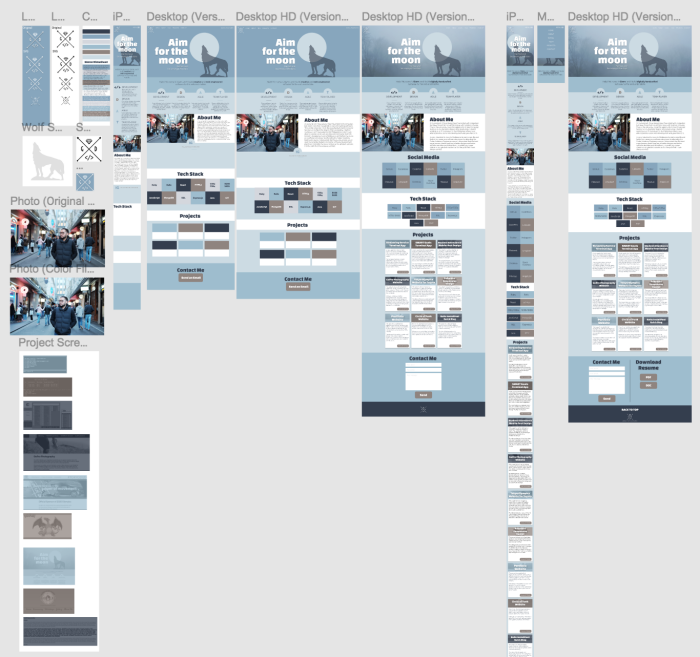
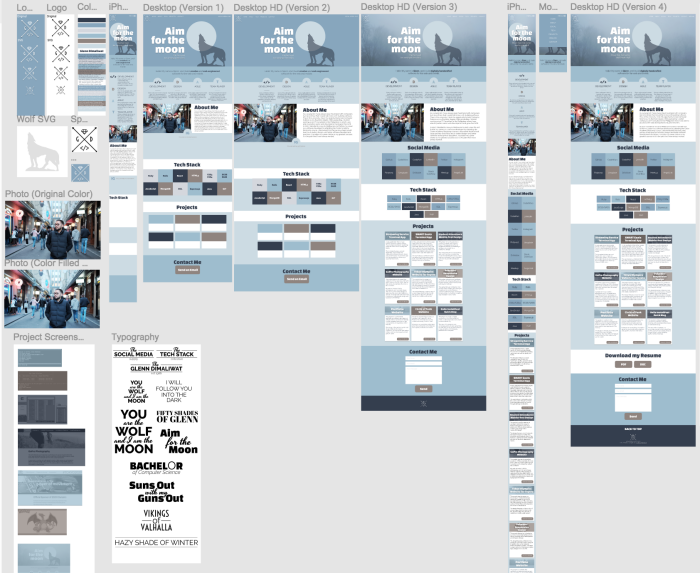
Update README and figma screenshot

diff --git a/README.md b/README.md
@@ -28,30 +28,43 @@ My Spotify playlist set most of the mood on my website. I believe it has created
 The spotify playlist can be found at this [link](https://goo.gl/qkK2sU)     
 
 # Inspiration
-My tagline is inspired by these popular quotes.
-+ *“Shoot for the moon. Even if you miss, you'll land among the stars.”* ― Norman Vincent Peale     
+My tagline "Aim for the moon. Move fast, fail better and break stuff" is inspired by these popular quotes. For me, a tagline creates a first impression once someone visits your website.        
+
+*“Shoot for the moon. Even if you miss, you'll land among the stars.”* ― Norman Vincent Peale     
 ![](http://www.glenndimaliwat.com/assets/img/inspiration/aimmoon.jpg)       
 
-+ *"Move fast and break things"* — Mark Zuckerberg      
+*"Move fast and break things"* — Mark Zuckerberg      
 ![](http://www.glenndimaliwat.com/assets/img/inspiration/zuckerberg.jpg)        
 
-+ *"Ever tried. Ever failed. No matter. Try Again. Fail again. Fail better."* — Samuel Beckett      
-+ Other popular *fail fast* slogan - [link](https://www.startupinstitute.com/blog/2015-5-6-inspirational-quotes-about-failure)      
-        
-Denise Chandler
+*"Ever tried. Ever failed. No matter. Try Again. Fail again. Fail better."* — Samuel Beckett      
+Other popular *fail fast* slogan - [link](https://www.startupinstitute.com/blog/2015-5-6-inspirational-quotes-about-failure)      
+
++ Denise Chandler
 - Among all the websites that I visited, Denise's website really got my attention and it became my sole inspiration. Her choice of colour scheme is quite unique and it works really well with her theme. Like my design, she also incorporated a tagline "Stand Out" and a character in her theme which is a "sea monster". I believe this really represented her objective to stand out and it did as her website is among the top 15 developer portfolio website.            
 ![](http://www.glenndimaliwat.com/assets/img/inspiration/denisechandler.png)        
 
 # Style Guide and Wireframes
-For my mockup design, I used Figma. The full figma project can be viewed at the following [link](https://www.figma.com/file/VNYTgiznPFjlymYOYqoL6rDv/Portfolio)     
+For my mockup design, I used Figma while my colour scheme is extracted from [colormind.io](colormind.io). Designing my website from Figma was a wonderful experience as I could visually predict the outcome of my website without having to code anything.     
+
+I however coded small parts as I went through my design because I needed to know my options in terms of CSS possibilities. This resulted in me having multiple versions of my designs. Each version is a milestone of certain decisions such as "Should I use flexbox to list down my skills?", "Should I create a separate section for my Instagram photos?", or "What would happen to this photo on a certain screen size breakpoint?".       
+
+This strategy worked for me as every time I am in doubt, I would just create a new version of my design in Figma.    
+
+The full figma project can be viewed at the following [link](https://www.figma.com/file/VNYTgiznPFjlymYOYqoL6rDv/Portfolio)     
 ![](http://www.glenndimaliwat.com/assets/img/wireframes/figma.png)      
 
 # Features
-+ SCSS
-+ JQuery
++ SCSS      
+SCSS is a godsend feature me as not only was I more organized in sectioning my website, I was also able to use to Mixins for cross-browser CSS and Variables for Colors, Fonts and Shadows. I am really happy that I learned SCSS and used it on this project.      
+
++ JQuery        
+JQuery is something that I wanted to avoid for this portfolio until I needed it for page animations. It, however, saved me a lot of time especially with my navigation bars.        
+
 + Google Analytics
 
-+ Optimize images using [Optimizilla](http://www.optimizilla.com)
++ Page Performance validation using Google PageSpeed Insights
+
++ Optimized images using [Optimizilla](http://www.optimizilla.com)
 
 * Optimized CSS and JavaScript using [Minify](https://www.npmjs.com/package/minifier)        
     ```npm install -g minify```     
